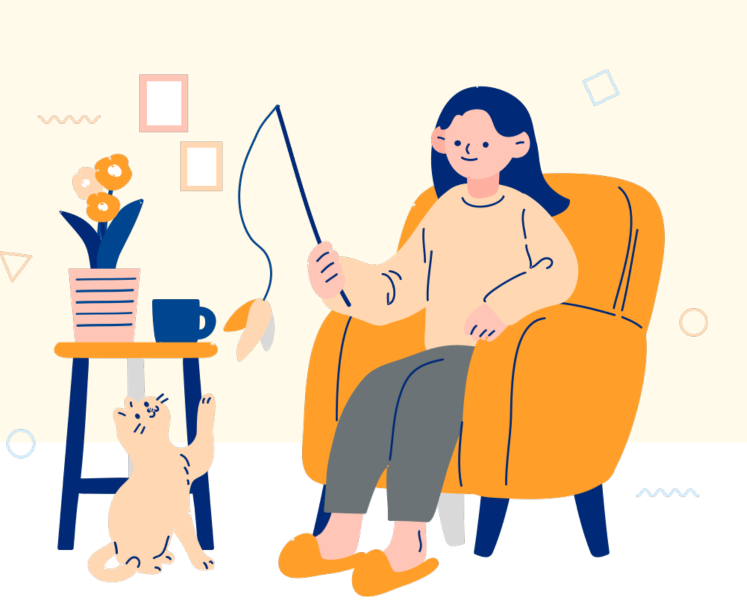
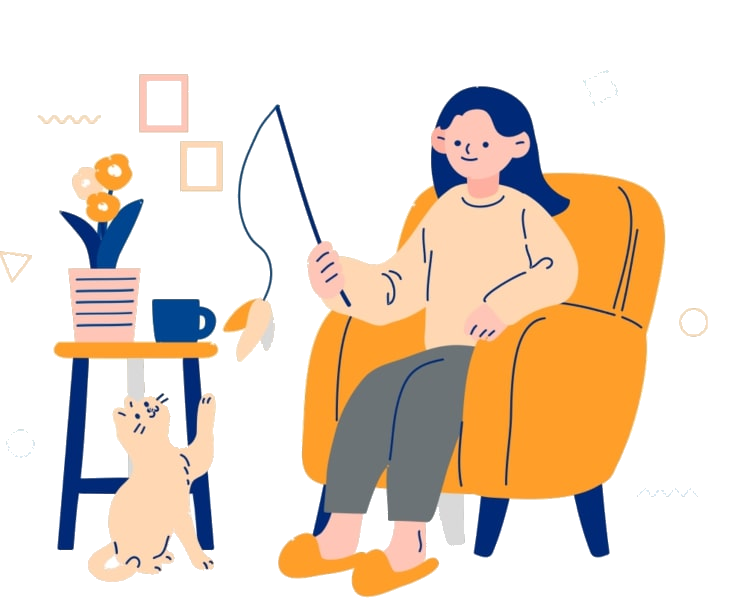
Mainview change

diff --git a/final_project/front-end/src/components/main/MainViewer.js b/final_project/front-end/src/components/main/MainViewer.js
@@ -1,6 +1,7 @@
 import React from "react";
 import { Typography } from "@material-ui/core";
 import styles from "../../styles/MainViewer.module.css";
+import MainImg from '../../img/MainPage.png'
 
 const MainViewer = () => {
   return (
@@ -17,6 +18,9 @@ const MainViewer = () => {
               SoonDoll을 통해 실시간으로 반려동물을 확인하세요
             </Typography>
           </div>
+        </div>
+        <div>
+          <img src = {MainImg} alt = "MainPage" />
         </div>
       </div>
     </React.Fragment>

diff --git a/final_project/front-end/src/styles/MainViewer.module.css b/final_project/front-end/src/styles/MainViewer.module.css
@@ -14,13 +14,7 @@
   width: 100%;
   height: 400px;
 
-  @media (max-width: 1024px) {
-    width: 768px;
-  }
 
-  @media (max-width: 768px) {
-    width: 100%;
-  }
 }
 
 .titleForm {
@@ -49,4 +43,13 @@
   font-size: 1rem;
   padding-left: 4.25rem;
   color: #000000;
+}
+
+img {
+  position: fixed;
+  top: 10rem;
+  right: 5rem;
+  width: 780px;
+  float: right;
+  overflow: hidden;
 }
